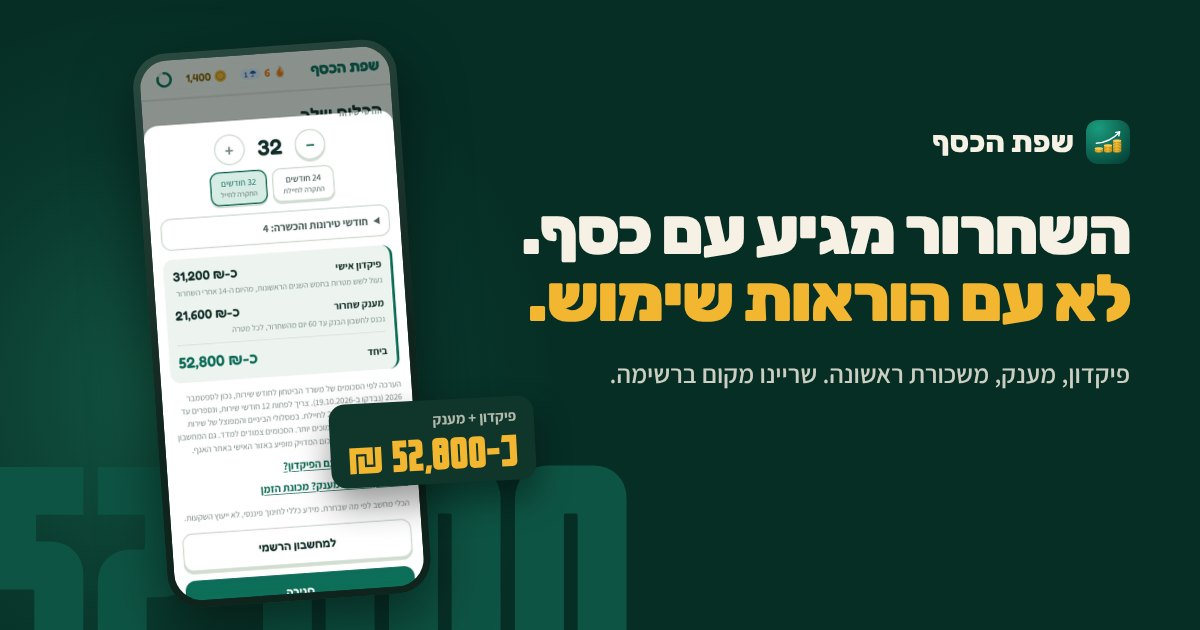
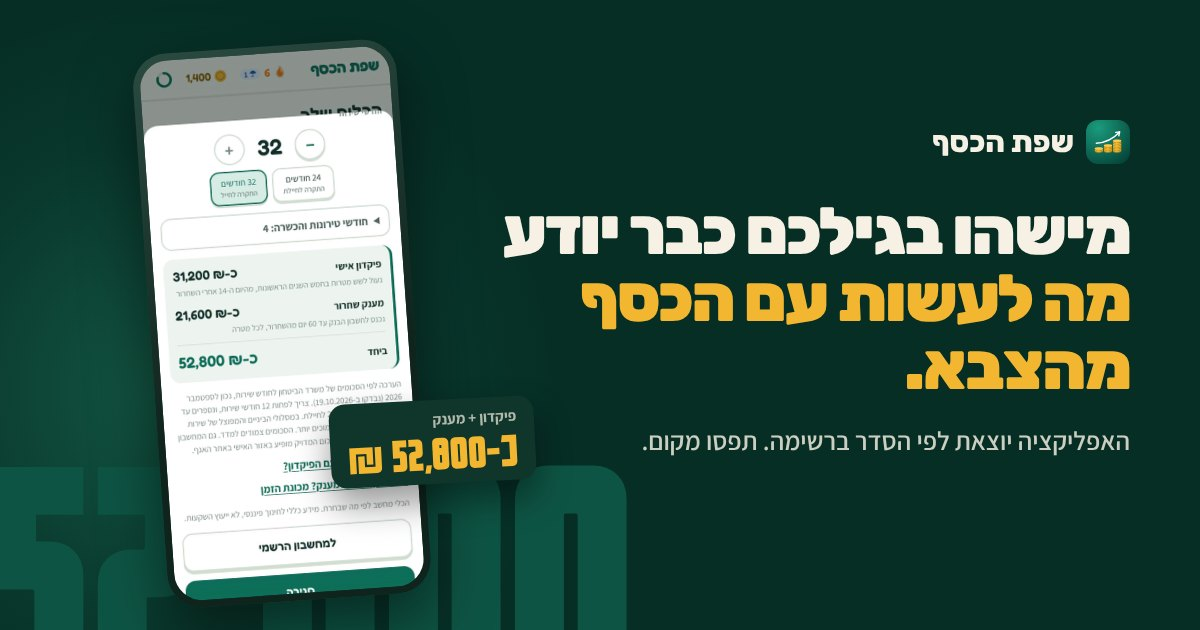
Landing page 2.1: FOMO copy
The headline, CTA and closing copy now lean on what the visitor loses by
waiting: the grant that goes first, tax paid for nothing, and the cost of
one year of 'later' in the Maya and Omer race (about 36,000 ₪ at 60).
No invented counts or deadlines: the only scarcity is the real order of
the waiting list. CTA label is now 'לתפוס מקום ברשימה'. New og.jpg.

Claude-Session: https://claude.ai/code/session_01PiUxpRiM6SH4FzGzELsLcM

Changed region(s): [[0.4008, 0.3317, 0.9558, 0.5429], [0.4933, 0.5429, 0.9558, 0.6333], [0.5242, 0.6937, 0.9558, 0.7238]]

diff --git a/landing/index.html b/landing/index.html
@@ -4,12 +4,12 @@
 <meta charset="utf-8">
 <meta name="viewport" content="width=device-width, initial-scale=1, viewport-fit=cover">
 <meta name="theme-color" content="#062E25">
-<title>שפת הכסף: השחרור מגיע עם כסף</title>
-<meta name="description" content="פיקדון, מענק, משכורת ראשונה. שפת הכסף מלמדת מה עושים עם כל שקל, בכמה דקות ביום ומהטלפון. בחינם. שריינו מקום ברשימה וקבלו את האפליקציה ראשונים.">
+<title>שפת הכסף: הכסף מהצבא, לפני שהוא נגמר</title>
+<meta name="description" content="מישהו בגילכם כבר יודע מה לעשות עם הפיקדון, המענק והמשכורת הראשונה. שפת הכסף מלמדת את זה בכמה דקות ביום, בחינם. האפליקציה יוצאת לפי הסדר ברשימה.">
 <meta property="og:type" content="website">
 <meta property="og:locale" content="he_IL">
-<meta property="og:title" content="השחרור מגיע עם כסף. לא עם הוראות שימוש.">
-<meta property="og:description" content="שפת הכסף מלמדת מה עושים עם הפיקדון, המענק והמשכורת הראשונה. כמה דקות ביום, בחינם. שריינו מקום ברשימה.">
+<meta property="og:title" content="מישהו בגילכם כבר יודע מה לעשות עם הכסף מהצבא. אתם?">
+<meta property="og:description" content="פיקדון, מענק, משכורת ראשונה. שפת הכסף מלמדת מה עושים איתם לפני שהם נגמרים. בחינם. האפליקציה יוצאת לפי הסדר ברשימה.">
 <meta property="og:image" content="https://jonathanriahi.github.io/dribit/landing/media/og.jpg">
 <meta property="og:url" content="https://jonathanriahi.github.io/dribit/landing/">
 <meta name="twitter:card" content="summary_large_image">
@@ -143,7 +143,7 @@ p { margin: 0; text-wrap: pretty; }
 /* =========================== STATION: PIKADON =========================== */
 .pik { padding: clamp(72px, 12vh, 120px) 0 clamp(56px, 9vh, 96px); }
 .pik h2 { font-weight: 900; font-size: clamp(34px, 8.4vw, 64px); line-height: 1.04; max-width: 15em; }
-.pik h2 .muted { display: block; color: var(--ink-2); font-weight: 800; font-size: .62em; line-height: 1.2; margin-top: 12px; letter-spacing: -.01em; }
+.pik h2 .muted, .sign h2 .muted { display: block; color: var(--ink-2); font-weight: 800; font-size: .62em; line-height: 1.2; margin-top: 12px; letter-spacing: -.01em; }
 .pik-grid { display: grid; gap: 36px; }
 .wishes { list-style: none; margin: 30px 0 0; padding: 0; border-top: 2px solid var(--ink); }
 .wish { display: flex; align-items: center; justify-content: space-between; gap: 14px; min-height: 66px; padding: 10px 2px; border-bottom: 1px dashed var(--rule); }
@@ -411,10 +411,10 @@ footer a { color: var(--ink-2); font-weight: 700; }
   <div class="wrap hero-in">
     <a class="brand" href="#top"><img src="../icons/icon.svg" alt="" width="34" height="34">שפת הכסף</a>
     <div class="hero-copy">
-      <h1><span>השחרור מגיע עם כסף.</span> <span class="h1b">לא עם הוראות שימוש.</span></h1>
-      <p class="lead">פיקדון, מענק, משכורת ראשונה. <b>שפת הכסף מלמדת מה עושים עם כל שקל</b>, בכמה דקות ביום ומהטלפון, לפני שמישהו אחר יחליט בשבילכם.</p>
-      <a class="cta" href="#sign" data-cta="hero">לשריין מקום ברשימה</a>
-      <p class="cta-note">בחינם. <b>מי שברשימה מקבל ראשון</b> את האפליקציה לאנדרואיד ולאייפון.</p>
+      <h1><span>מישהו בגילכם כבר יודע</span> <span class="h1b">מה לעשות עם הכסף מהצבא.</span></h1>
+      <p class="lead">ומי שלא, מגלה מאוחר מדי: אחרי שהמענק נגמר, אחרי שנה של מס מיותר, אחרי עשר שנים שהכסף היה יכול לעבוד. <b>שפת הכסף מלמדת את זה בכמה דקות ביום</b>, מהטלפון.</p>
+      <a class="cta" href="#sign" data-cta="hero">לתפוס מקום ברשימה</a>
+      <p class="cta-note">בחינם. <b>האפליקציה יוצאת לפי הסדר ברשימה</b>, וכל מי שנרשם היום נכנס לפני מי שיירשם מחר.</p>
       <p class="count" id="count" hidden><i aria-hidden="true"></i><span></span></p>
       <p class="inapp" id="inappHint">פתחתם מטיקטוק או מאינסטגרם? ההרשמה עובדת גם מכאן. כדי לנסות את האפליקציה עצמה, פתחו את הקישור בדפדפן: שלוש הנקודות למעלה, ואז "פתיחה בדפדפן".</p>
     </div>
@@ -434,7 +434,7 @@ footer a { color: var(--ink-2); font-weight: 700; }
 <main>
   <section class="pik" id="st-pikadon" aria-labelledby="pikTitle">
     <div class="wrap pik-grid">
-      <h2 id="pikTitle">כ-31,200 ₪ יחכו לכם בפיקדון. <span class="muted">עכשיו נחשו על מה מותר להוציא אותם.</span></h2>
+      <h2 id="pikTitle">כ-31,200 ₪ יחכו לכם בפיקדון. <span class="muted">נחשו על מה מותר להוציא אותם, לפני שתגלו בדרך הקשה.</span></h2>
       <ul class="wishes" id="wishes">
         <li class="wish no"><span class="w">טיסה לתאילנד</span><span class="stamp no">לא</span></li>
         <li class="wish no"><span class="w">רכב ראשון</span><span class="stamp no">לא</span></li>
@@ -445,10 +445,10 @@ footer a { color: var(--ink-2); font-weight: 700; }
       </ul>
       <div class="pik-after">
         <p>בחמש השנים הראשונות הפיקדון נפתח רק לשש מטרות: <b>לימודים, הכשרה מקצועית, נהיגה, עסק, חתונה ודירה</b> (קנייה, לא שכירות). מה שלא נוצל עובר אחר כך לחשבון הבנק, ומותר לכל דבר.</p>
-        <p class="grant">והמענק? מותר לכל מטרה, מהיום הראשון. ובדיוק בגלל זה כדאי לדעת מה עושים איתו.</p>
+        <p class="grant">והמענק? מותר לכל מטרה, מהיום הראשון. ולכן הוא גם הכסף הכי קל לבזבז בלי לשים לב.</p>
         <figure class="peek">
           <div class="phone-s"><video class="clip" poster="media/check.webp" muted loop playsinline preload="none" width="576" height="1246" aria-label="סרטון מהאפליקציה: בודקים אם מותר לטוס עם הפיקדון (לא בחמש השנים הראשונות) ואם מותר לממן שיעורי נהיגה (מותר, מהיום ה-14 אחרי השחרור)"><source src="media/check.mp4" type="video/mp4"></video></div>
-          <figcaption>יש לכם רעיון אחר?<span>באפליקציה בוחרים, ורואים מיד אם מותר, ומתי.</span></figcaption>
+          <figcaption>יש לכם תוכנית אחרת?<span>באפליקציה בודקים לפני שמתכננים: מותר, אסור, ומתי.</span></figcaption>
         </figure>
       </div>
     </div>
@@ -458,7 +458,7 @@ footer a { color: var(--ink-2); font-weight: 700; }
     <div class="wrap">
       <p id="quietTitle"><span class="maya">מאיה</span> ו<span class="omer">עומר</span> חוסכים בדיוק אותו דבר.</p>
       <p class="q-small">300 ₪ בחודש. 6% בשנה. עד גיל 60.</p>
-      <p>הבדל אחד: מאיה מתחילה בגיל 21. עומר בגיל 35.</p>
+      <p>הבדל אחד: מאיה מתחילה בגיל 21. עומר אומר "אחר כך", ומתחיל בגיל 35.</p>
     </div>
   </section>
 
@@ -487,7 +487,7 @@ footer a { color: var(--ink-2); font-weight: 700; }
       </div>
       <div class="race-end">
         <p class="big">מאיה הפקידה רק כ-50,000 ₪ יותר. <em>בסוף יש לה פי 2.7.</em></p>
-        <p class="small">את כל הפער עשה הזמן. בשפת הכסף קוראים לזה ריבית דריבית.</p>
+        <p class="small">את כל הפער עשה הזמן, וכל "אחר כך" עולה כסף: אם מאיה הייתה מחכה רק שנה, היו לה בגיל 60 כ-36,000 ₪ פחות.</p>
         <p class="fine">חישוב לדוגמה בתשואה קבועה של 6% בשנה. בשוק אמיתי התשואה משתנה, ואין הבטחה.</p>
       </div>
       <span class="stamp race-stamp" aria-hidden="true">הבנתי</span>
@@ -497,8 +497,8 @@ footer a { color: var(--ink-2); font-weight: 700; }
   <section class="tax" id="st-tax" aria-labelledby="taxTitle">
     <div class="wrap tax-grid">
       <div class="tax-head">
-        <h2 id="taxTitle">משכורת ראשונה.<br>שאלה אחת.</h2>
-        <p>ככה נראה כל שיעור בשפת הכסף: סיפור קצר, שאלה שמבלבלת והסבר. נכון בניסיון הראשון? 10 נקודות.</p>
+        <h2 id="taxTitle">משכורת ראשונה.<br>מס שלא הייתם צריכים לשלם.</h2>
+        <p>שאלה אחת ששווה עד כ-17,400 ₪. ככה נראה כל שיעור בשפת הכסף: סיפור קצר, שאלה שמבלבלת והסבר. נכון בניסיון הראשון? 10 נקודות.</p>
       </div>
       <div class="qcard" id="qcard" role="group" aria-labelledby="qPrompt">
         <p class="q-scn"><svg viewBox="0 0 24 24" fill="currentColor" aria-hidden="true"><circle cx="12" cy="8" r="4"/><path d="M4 21c0-4.4 3.6-7 8-7s8 2.6 8 7z"/></svg><span>נועה השתחררה אחרי 24 חודשי שירות, והתחילה לעבוד בבית קפה. בתלוש הראשון ירד לה מס כמו לכל אחד.</span></p>
@@ -509,7 +509,7 @@ footer a { color: var(--ink-2); font-weight: 700; }
           <button class="opt" type="button" data-ok="0"><span class="k">ג</span>לחכות לסוף השנה. ההנחה מגיעה כמענק</button>
           <button class="opt" type="button" data-ok="0"><span class="k">ד</span>לבקש מביטוח לאומי לעדכן את המעסיק</button>
         </div>
-        <div class="q-fb" id="qfb" aria-live="polite"><div class="t"></div><p>המעסיק לא יודע לבד. מסמנים בטופס 101, ומקבלים 2 נקודות זיכוי לשלוש שנים: עד כ-17,400 ₪ פחות מס. ופספסתם? מבקשים החזר מס, עד שש שנים אחורה.</p></div>
+        <div class="q-fb" id="qfb" aria-live="polite"><div class="t"></div><p>המעסיק לא יודע לבד. מסמנים בטופס 101, ומקבלים 2 נקודות זיכוי לשלוש שנים: עד כ-17,400 ₪ פחות מס. עד שמסמנים, כל תלוש מוריד יותר מדי. ופספסתם? מבקשים החזר מס, עד שש שנים אחורה.</p></div>
       </div>
     </div>
   </section>
@@ -517,14 +517,14 @@ footer a { color: var(--ink-2); font-weight: 700; }
   <section class="tour" id="st-tour" aria-labelledby="tourTitle">
     <div class="tour-stage">
       <div class="wrap tour-head">
-        <h2 id="tourTitle">ככה נראות כמה דקות ביום.</h2>
+        <h2 id="tourTitle">כמה דקות ביום. פחות מהזמן שהולך על טיקטוק.</h2>
         <p>33 שיעורים ב-8 יחידות. רצף, נקודות ושלבים, כמו באפליקציה ללימוד שפות. רק שהשפה כאן היא כסף.</p>
       </div>
       <div class="track-vp" id="trackVp">
         <div class="track" id="track">
           <figure class="card"><div class="fr"><video class="clip" poster="media/quiz.webp" muted loop playsinline preload="none" width="576" height="1246" aria-label="סרטון מהאפליקציה: שאלה על מאיה ועומר, עונים נכון ומקבלים 10 נקודות"><source src="media/quiz.mp4" type="video/mp4"></video></div><figcaption>שאלות שנשמעות קלות.<span>עד שעונים עליהן. והסבר אחרי כל תשובה.</span></figcaption></figure>
           <figure class="card"><div class="fr"><img src="media/story.webp" alt="מסך שיעור: מאיה ועומר, אותו חיסכון" width="600" height="1298" loading="lazy"></div><figcaption>כל שיעור מתחיל בסיפור.<span>של מישהו בגילכם, עם כסף אמיתי.</span></figcaption></figure>
-          <figure class="card"><div class="fr"><img src="media/home.webp" alt="מסך הבית: רצף של 6 ימים, 640 נקודות, המסלול עם השיעור הבא" width="600" height="1298" loading="lazy"></div><figcaption>רצף ששווה לשמור עליו.<span>שיעור ביום מאריך את האש, וכל שלב נותן יום חופש.</span></figcaption></figure>
+          <figure class="card"><div class="fr"><img src="media/home.webp" alt="מסך הבית: רצף של 6 ימים, 640 נקודות, המסלול עם השיעור הבא" width="600" height="1298" loading="lazy"></div><figcaption>רצף שלא תרצו לשבור.<span>יום בלי שיעור והאש נכבית, אלא אם צברתם יום חופש.</span></figcaption></figure>
           <figure class="card"><div class="fr"><img src="media/tools.webp" alt="מסך הכלים: מחשבון שחרור, מה מותר עם הפיקדון, מכונת הזמן, דמי ניהול, התוכנית שלי" width="600" height="1298" loading="lazy"></div><figcaption>כלים שעושים את החשבון.<span>נפתחים לפי שלב: מחשבון שחרור, דמי ניהול, תוכנית לכסף מהצבא.</span></figcaption></figure>
           <figure class="card"><div class="fr"><img src="media/skins.webp" alt="מסך ההתקדמות: שלב 4 מתוך 11 וצבעים שנפתחים לפי שלב" width="600" height="1298" loading="lazy"></div><figcaption>שלבים וצבעים.<span>כל כמה שלבים נפתח צבע חדש לאפליקציה.</span></figcaption></figure>
           <figure class="card"><div class="fr"><img src="media/status.webp" alt="בחירת מצב: בשירות סדיר, לפני שחרור, אחרי שחרור, לא בצבא" width="600" height="1298" loading="lazy"></div><figcaption>לפי איפה שאתם.<span>בסדיר, לפני שחרור או אחרי: מה שרלוונטי עכשיו, קודם.</span></figcaption></figure>
@@ -536,8 +536,8 @@ footer a { color: var(--ink-2); font-weight: 700; }
   <section class="sign" id="sign" aria-labelledby="signTitle">
     <div class="wrap sign-grid">
       <div>
-        <h2 id="signTitle">נשאר רק לחתום.</h2>
-        <p class="sub">האפליקציה לאנדרואיד ולאייפון בדרך. מי שברשימה מקבל אותה ראשון, בהודעת וואטסאפ. בחינם, בלי ספאם.</p>
+        <h2 id="signTitle">נשאר רק לחתום. <span class="muted">לפני שהתור מתארך.</span></h2>
+        <p class="sub">האפליקציה לאנדרואיד ולאייפון יוצאת לפי הסדר ברשימה. מי שחותם עכשיו מקבל אותה לפני מי שחותם מחר, בהודעת וואטסאפ. בחינם, בלי ספאם.</p>
       </div>
       <div>
         <div class="paper" id="paper">
@@ -583,7 +583,7 @@ footer a { color: var(--ink-2); font-weight: 700; }
             <p class="err" id="consentErr" role="alert"></p>
 
             <div class="sig-line" aria-hidden="true"><span>חתימה</span><i id="sigInk"></i></div>
-            <button class="cta" type="submit" id="joinBtn" data-cta="sign">לשריין מקום ברשימה</button>
+            <button class="cta" type="submit" id="joinBtn" data-cta="sign">לתפוס מקום ברשימה</button>
             <p class="privacy">הפרטים משמשים רק לעדכונים משפת הכסף, ולא מועברים לאף גוף אחר. מגיל 18.</p>
             <div class="fallback" id="fallback">
               <p class="err">לא הצלחנו לשמור מהדפדפן הזה. אפשר להצטרף בהודעת וואטסאפ קצרה:</p>
@@ -594,10 +594,10 @@ footer a { color: var(--ink-2); font-weight: 700; }
           <div class="done" id="done" aria-live="polite" tabindex="-1">
             <span class="stamp big-stamp" aria-hidden="true">אושר</span>
             <div class="ticket-no" id="ticketNo" hidden><small>המקום שלכם ברשימה</small><span></span></div>
-            <h3 id="doneTitle">שריינו לכם מקום.</h3>
-            <p class="d-sub" id="doneSub">כשהאפליקציה מוכנה, תקבלו הודעה ראשונים.</p>
+            <h3 id="doneTitle">תפסתם מקום.</h3>
+            <p class="d-sub" id="doneSub">כשהאפליקציה יוצאת, הסדר ברשימה קובע מי מקבל קודם.</p>
             <div class="boost">
-              <b>רוצים לעלות בתור?</b>
+              <b>רוצים לעקוף את התור?</b>
               <p id="boostTxt">כל חבר שנרשם מהקישור שלכם מקדם אתכם 5 מקומות.</p>
               <div class="row">
                 <a class="btn2 wa" id="shareWa" href="#" target="_blank" rel="noopener" data-cta="share_whatsapp"><svg viewBox="0 0 24 24" fill="currentColor" aria-hidden="true"><path d="M12 2a10 10 0 00-8.6 15.1L2 22l5-1.3A10 10 0 1012 2zm0 18.2a8.2 8.2 0 01-4.2-1.2l-.3-.2-3 .8.8-2.9-.2-.3A8.2 8.2 0 1112 20.2zm4.5-6.1c-.2-.1-1.5-.7-1.7-.8-.2-.1-.4-.1-.6.1l-.8 1c-.1.2-.3.2-.5.1a6.7 6.7 0 01-3.3-2.9c-.2-.4.2-.4.7-1.3.1-.2 0-.3 0-.4l-.8-1.8c-.2-.5-.4-.4-.6-.4h-.5a1 1 0 00-.7.3 3 3 0 00-.9 2.2 5.2 5.2 0 001.1 2.7 11.8 11.8 0 004.5 4c1.7.7 2.3.8 3.2.6a2.7 2.7 0 001.8-1.3 2.2 2.2 0 00.2-1.3c-.1-.1-.3-.2-.6-.3z"/></svg>לשלוח לחבר</a>
@@ -636,7 +636,7 @@ footer a { color: var(--ink-2); font-weight: 700; }
     <a class="tf-line" href="#st-race" data-slot="race"><span class="tf-short">ריבית</span><span class="tf-full">ריבית דריבית</span><span class="tf-mark"><svg viewBox="0 0 24 24" fill="none" stroke="currentColor" stroke-width="3.2" stroke-linecap="round" stroke-linejoin="round"><path d="M5 12.5l4.5 4.5L19 7.5"/></svg></span></a>
     <a class="tf-line" href="#st-tax" data-slot="tax"><span class="tf-short">מס</span><span class="tf-full">מס</span><span class="tf-mark"><svg viewBox="0 0 24 24" fill="none" stroke="currentColor" stroke-width="3.2" stroke-linecap="round" stroke-linejoin="round"><path d="M5 12.5l4.5 4.5L19 7.5"/></svg></span></a>
   </div>
-  <a class="cta" href="#sign" data-cta="tofes">לשריין מקום ברשימה</a>
+  <a class="cta" href="#sign" data-cta="tofes">לתפוס מקום ברשימה</a>
 </nav>
 
 <script src="../config.js" onerror="void 0"></script>
@@ -649,7 +649,7 @@ footer a { color: var(--ink-2); font-weight: 700; }
   var SHEET = WL.sheetUrl || '', BOOST = WL.boostPerFriend || 5, SHOW_FROM = WL.showCountFrom || 50;
   var WA = (CFG.feedback && CFG.feedback.whatsapp) || '';
   var PREVIEW = !!window.LANDING_PREVIEW;
-  var VERSION = 'landing-2';
+  var VERSION = 'landing-2.1';
   var SITE = 'https://jonathanriahi.github.io/dribit/landing/';
   var UID_KEY = 'dribit.landing.uid', JOINED_KEY = 'dribit.landing.joined', STAMPS_KEY = 'dribit.landing.stamps', REF_KEY = 'dribit.landing.ref';
   var reduce = !!(window.matchMedia && matchMedia('(prefers-reduced-motion: reduce)').matches);
@@ -774,7 +774,7 @@ footer a { color: var(--ink-2); font-weight: 700; }
     return d;
   }
   function dot(el, m, v) { el.style.opacity = 1; el.style.left = (m / TOTAL * 100).toFixed(2) + '%'; el.style.top = (100 - v / MAXV * 100).toFixed(2) + '%'; }
-  var CAPS = [[21, 'מאיה מתחילה. עומר עוד לא.'], [35, 'עומר מתחיל. אותם 300 ₪ בחודש.'], [44, 'הרווחים של מאיה מתחילים להרוויח בעצמם.'], [52, 'העשור האחרון עושה את רוב העבודה.'], [60, 'אותם 300 ₪ בחודש. פער של כ-350 אלף.']];
+  var CAPS = [[21, 'מאיה מתחילה. עומר עוד לא.'], [35, 'עומר סוף סוף מתחיל. 14 שנה אחרי מאיה.'], [44, 'הרווחים של מאיה מתחילים להרוויח בעצמם.'], [52, 'העשור האחרון עושה את רוב העבודה.'], [60, 'אותם 300 ₪ בחודש. פער של כ-350 אלף.']];
   var lastAge = -1, lastCap = '';
   function drawRace(t) {
     var mth = Math.round(clamp(t, 0, 1) * (X1 - X0) * 12), age = X0 + Math.floor(mth / 12);
@@ -914,13 +914,13 @@ footer a { color: var(--ink-2); font-weight: 700; }
   if (joined && joined.at) showDone(joined, false);
 
   function shareUrl(code) { return SITE + '?r=' + encodeURIComponent(code) + '&source=friend'; }
-  function shareText() { return 'יודעים על מה מותר להוציא את הפיקדון? אני ברשימה של שפת הכסף, אפליקציה שמלמדת מה עושים עם הכסף מהצבא. תצטרפו מהקישור שלי:'; }
+  function shareText() { return 'לפני שאתה מוציא את המענק: יודע על מה מותר להוציא את הפיקדון? אני כבר ברשימה של שפת הכסף, אפליקציה שמלמדת מה עושים עם הכסף מהצבא. היא יוצאת לפי הסדר ברשימה, אז כדאי להיכנס עכשיו:'; }
   function showDone(j, animate) {
     paper.classList.add('signed');
     if (animate && !reduce) { paper.classList.remove('thump'); void paper.offsetWidth; paper.classList.add('thump'); }
     else paper.querySelector('.big-stamp').style.animation = 'none';
     var tn = $('ticketNo');
-    if (j.position) { tn.hidden = false; tn.querySelector('span').textContent = '#' + fmt(j.position); $('doneTitle').textContent = 'אתם ברשימה.'; }
+    if (j.position) { tn.hidden = false; tn.querySelector('span').textContent = '#' + fmt(j.position); $('doneTitle').textContent = 'תפסתם מקום.'; }
     else if (PREVIEW) { tn.hidden = false; tn.querySelector('span').textContent = '#—'; $('doneTitle').textContent = 'תצוגה מקדימה: כאן יופיע המקום בתור.'; }
     $('boostTxt').textContent = 'כל חבר שנרשם מהקישור שלכם מקדם אתכם ' + BOOST + ' מקומות.';
     var code = j.code || '';
@@ -973,7 +973,7 @@ footer a { color: var(--ink-2); font-weight: 700; }
     Promise.all([ph.catch(function () { return false; }), sh.catch(function () { return null; })]).then(function (res) {
       var phOk = res[0], s = res[1];
       if (!phOk && !s && !PREVIEW) {
-        btn.disabled = false; btn.textContent = 'לשריין מקום ברשימה';
+        btn.disabled = false; btn.textContent = 'לתפוס מקום ברשימה';
         var msg = 'היי, אשמח להצטרף לרשימת ההמתנה של שפת הכסף' + (device ? ' (' + (device === 'iphone' ? 'אייפון' : 'אנדרואיד') + ')' : '') + (mode === 'email' ? '. האימייל שלי: ' + contact : '');
         if (WA) { $('waJoin').href = 'https://wa.me/' + WA + '?text=' + encodeURIComponent(msg); fallback.classList.add('on'); }
         else errEl.textContent = 'לא הצלחנו לשמור כרגע. נסו שוב בעוד רגע.';
